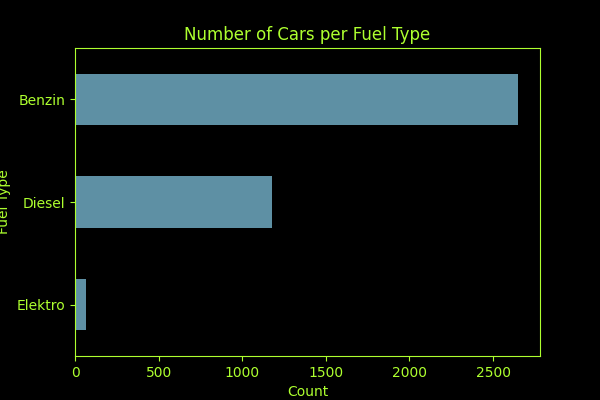
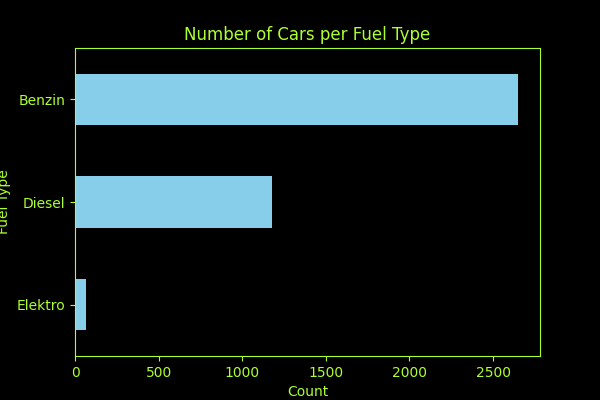
...

Changed region(s): [[0.12, 0.18, 0.87, 0.33], [0.12, 0.42, 0.48, 0.57], [0.12, 0.69, 0.15, 0.84]]

diff --git a/Week_05/exercises/flask_car_data_dashboard/app.py b/Week_05/exercises/flask_car_data_dashboard/app.py
@@ -31,10 +31,11 @@ app = Flask(__name__)
 
 # Create histogram
 plt.figure(figsize=(6, 4))
-df['price'].hist(bins=30, color='skyblue', alpha=0.7)
+df['price'].hist(bins=30, color='skyblue', alpha=1.0)
 plt.title('Histogram of Price')
 plt.xlabel('Price')
 plt.ylabel('Frequency')
+plt.grid(False)
 plt.savefig('static/histogram_price.png')
 plt.close()
 
@@ -43,7 +44,7 @@ plt.figure(figsize=(6, 4))
 df[df['fuel_type'].isin(['Elektro',
                          'Diesel',
                          'Benzin'])]['fuel_type'].value_counts().sort_values(
-    ascending=True).plot(kind='barh', color='skyblue', alpha=0.7)
+    ascending=True).plot(kind='barh', color='skyblue', alpha=1.0)
 plt.title('Number of Cars per Fuel Type')
 plt.xlabel('Count')
 plt.ylabel('Fuel Type')
